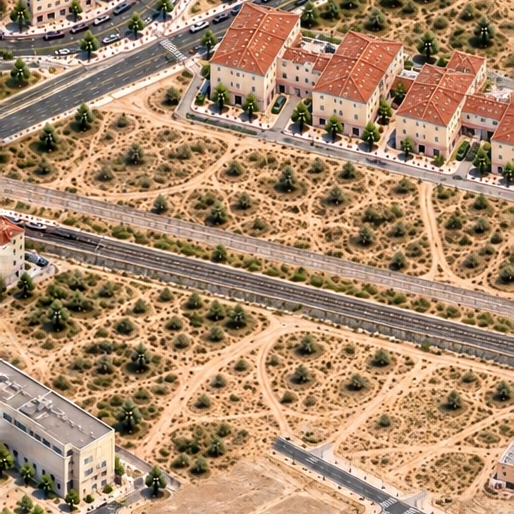
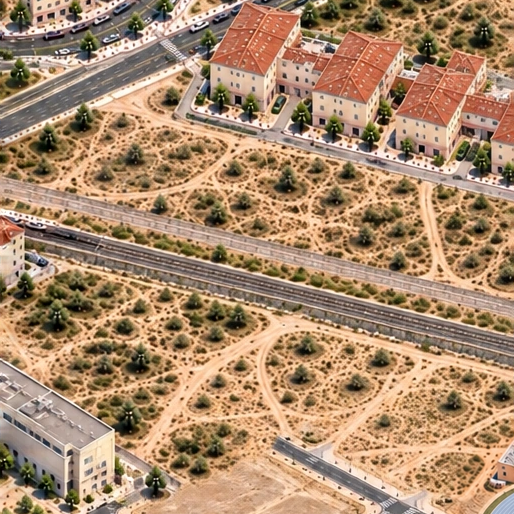
31,11: full athletics stadium UCLM (blue-gray oval + grandstand NE per PNOA)

Changed region(s): [[0.8716, 0.8405, 1.0, 1.0]]

diff --git a/DECISIONS.md b/DECISIONS.md
@@ -504,3 +504,8 @@ Reanudacion autorizada por Rafa el 21 nov ("Avanza tuuuu"). Primera correccion a
 - Contrastado: rectangularidad del campo, marcas de fútbol, pista
   polideportiva SE, pabellón SO, petanca S. Interpretado: textura fina de
   la tierra, porterías y líneas exactas.
+    - e) Rectificacion 31,11 - estadio universitario de atletismo UCLM COMPLETO:
+      - sustituido el recorte parcial (primer intento cortaba el anillo este en el borde)
+      - estadio completo: ovalo azul-gris 400m, hierba, zonas saltos azul claro, grada NE, perimetro arena
+      - contraste: PNOA hires (vuelo PNOA 2024, consultado 2026-11-21) + UCLM noticia 2024-10-29 (uclm.es convenio atletismo) + Nominatim reverse 38.979554,-1.860197 (2026-11-21) - geometria ovalo azul-gris, infield hierba, grada NE
+      - soporte 95.9k px conectado, 0 diffs fuera, juntas verificadas 4 lados; interpretado: marcas de calles, desgaste de hierba
